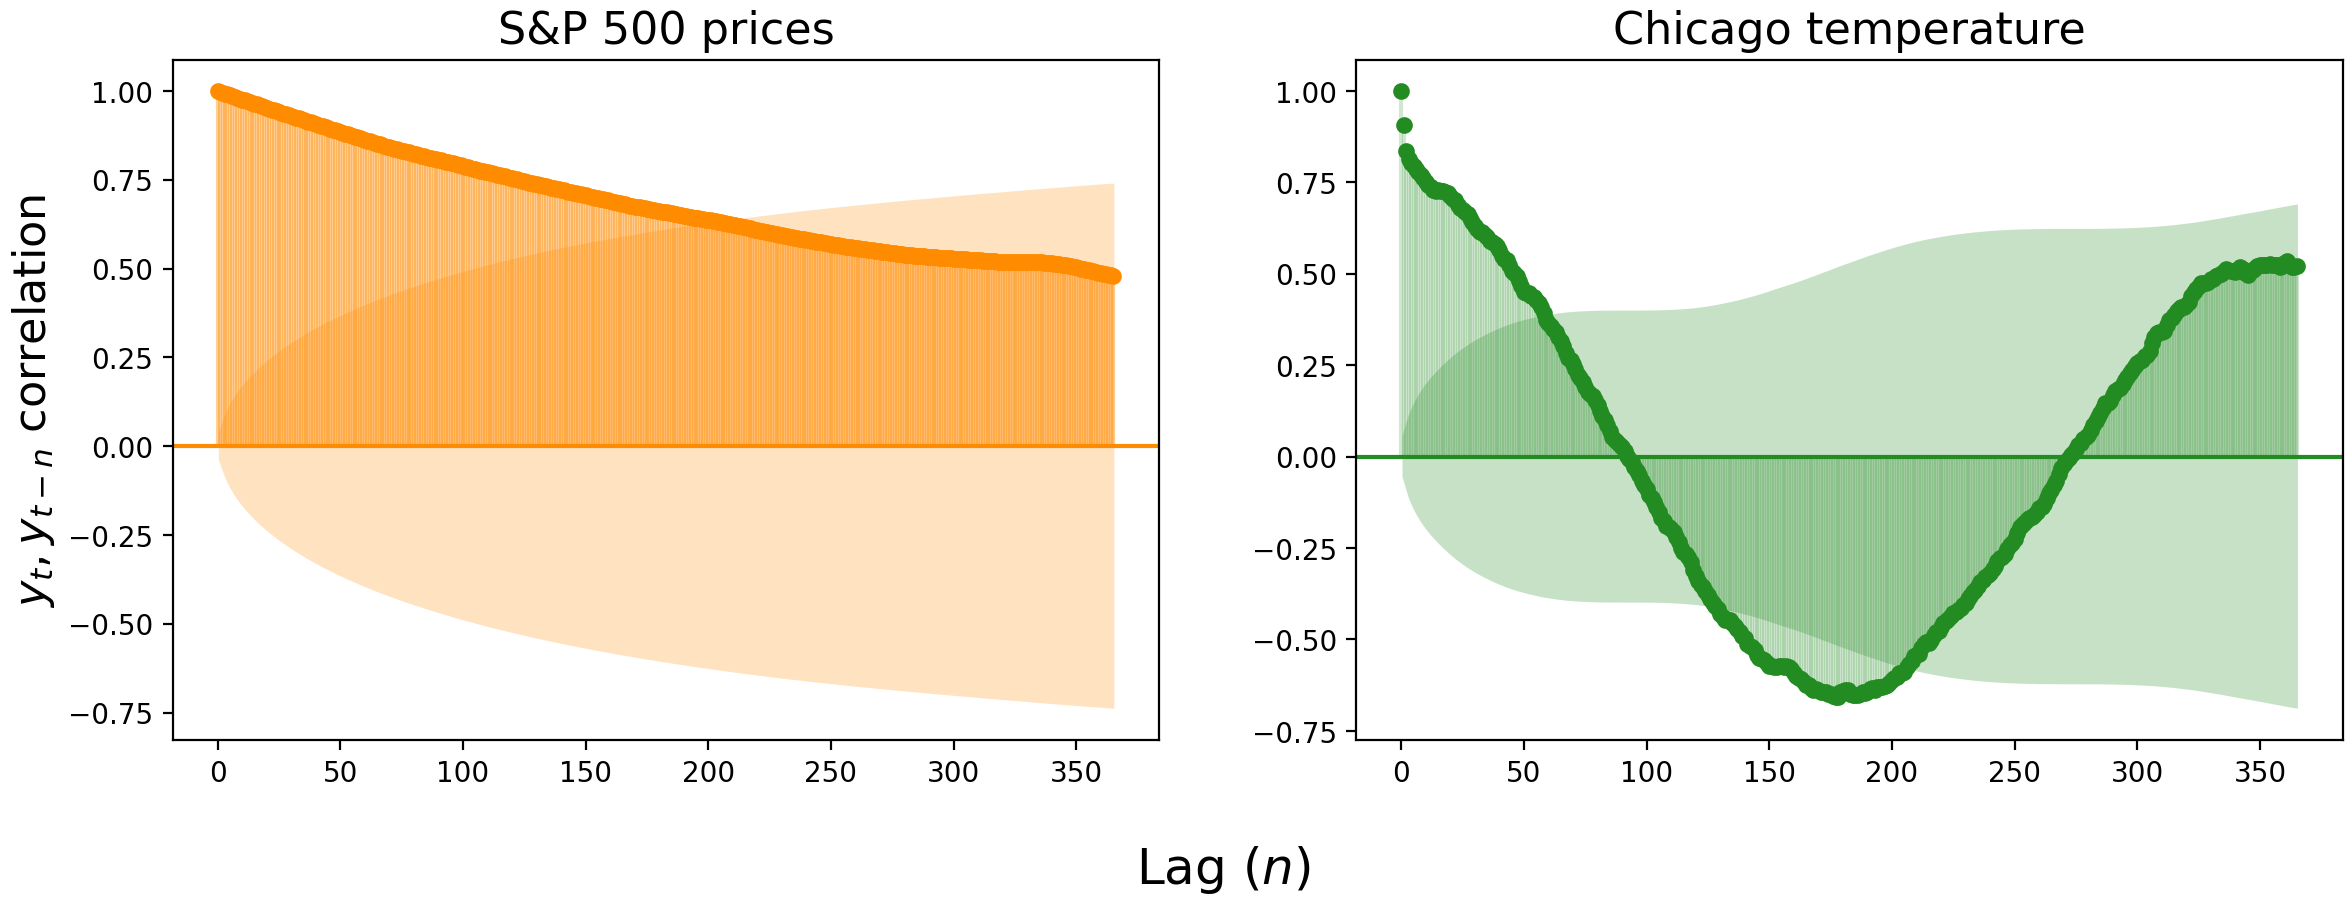
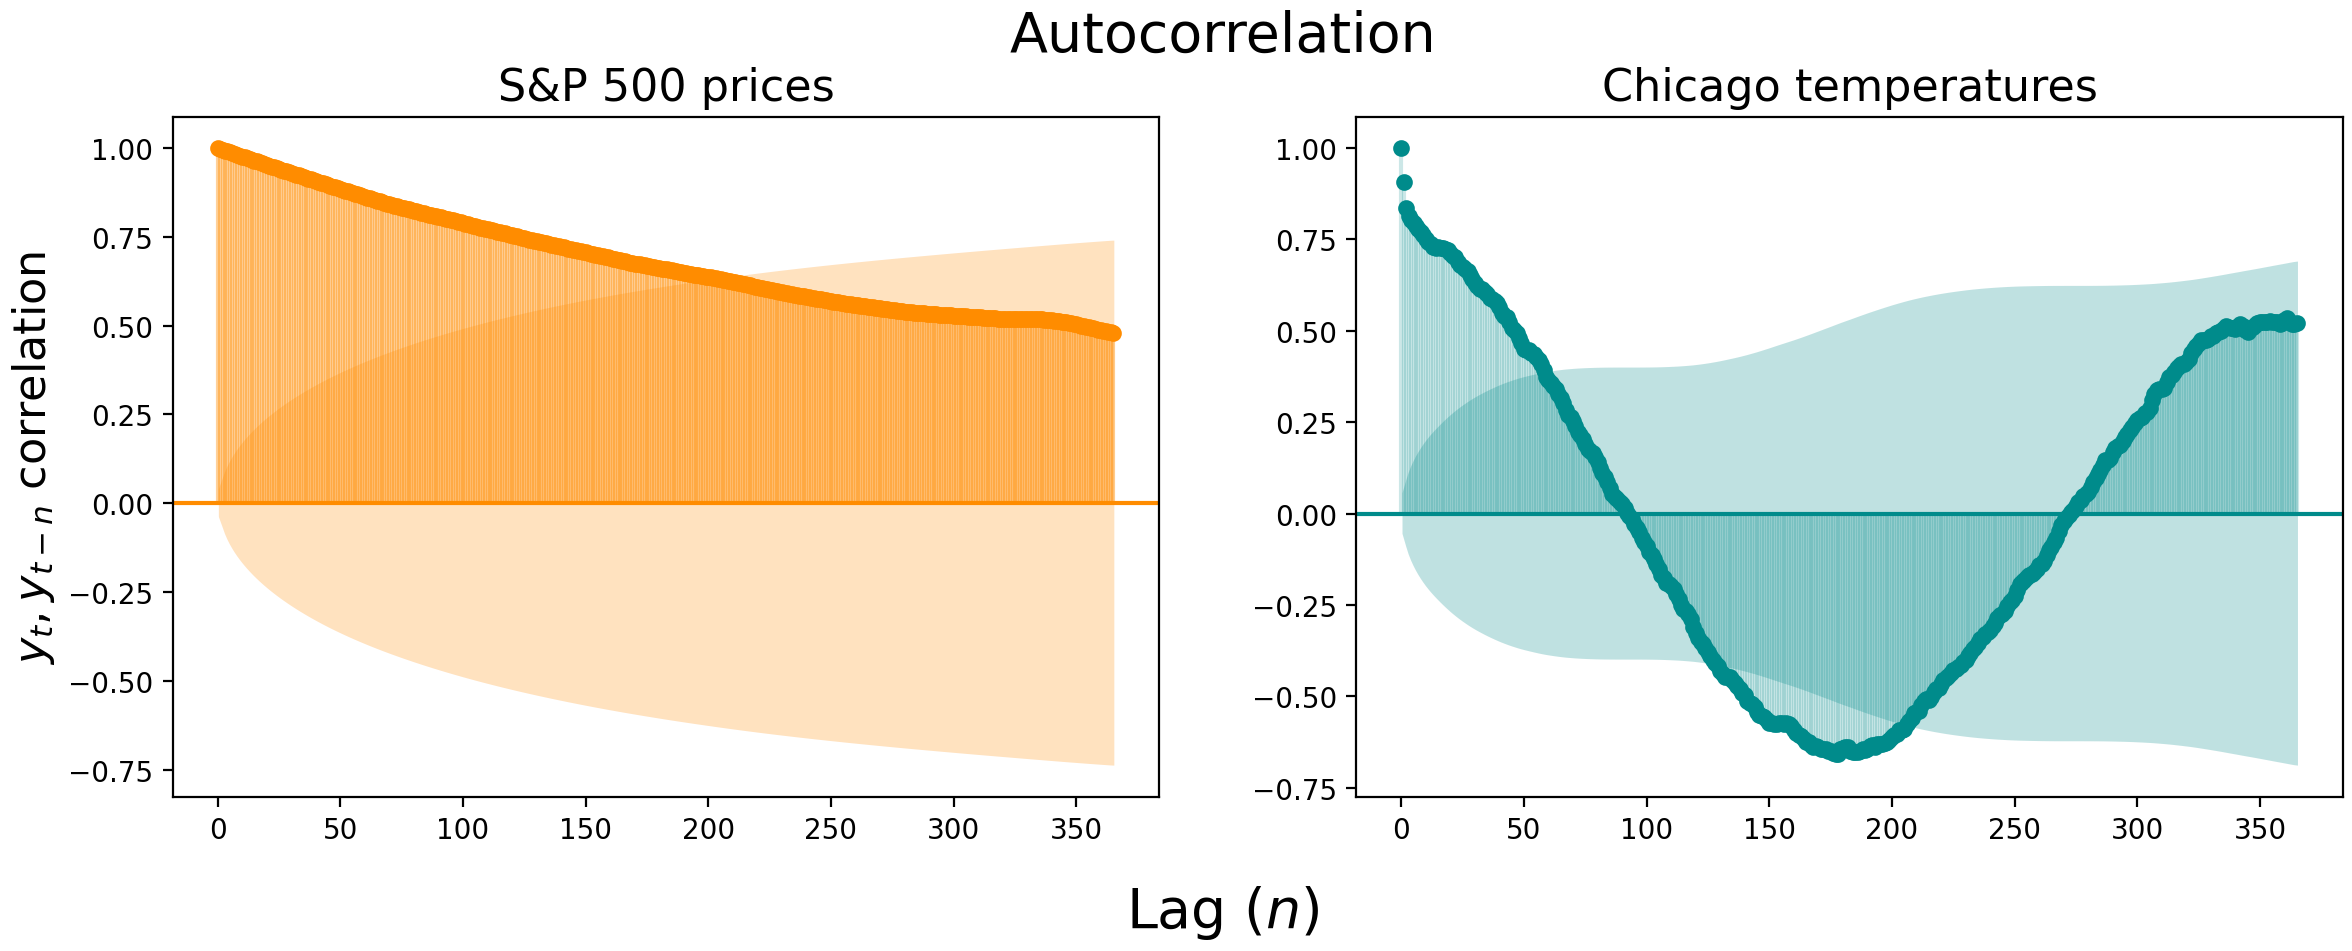
Add to autocorr, add/update images

diff --git a/_posts/statistics/2021-06-22-ARIMA-intro.md b/_posts/statistics/2021-06-22-ARIMA-intro.md
@@ -52,35 +52,28 @@ Enough talk. Let's get started!
 
 ## Getting started
 ### Autocorrelation
-Before we can start building any models, we need to cover a topic essential for describing time series: [**autocorrelation**](https://en.wikipedia.org/wiki/Autocorrelation). Autocorrelation literally means "self-correlation": it is the similarity of a time series' values with earlier values, or **lags**.
+Before we can start building any models, we need to cover a topic essential for describing time series: [**autocorrelation**](https://en.wikipedia.org/wiki/Autocorrelation). Autocorrelation means "self-correlation": it is the similarity of a time series' values with earlier values, or **lags**.
 
-We can visualize the correlation of the _present value_ with a _previous value $n$ lags ago_ with an autocorrelation plot. Below we visualize the autocorrelation of [daily S&P 500 closing prices](https://finance.yahoo.com/quote/DX-Y.NYB/history?period1=1468195200&period2=1625961600&interval=1d&filter=history&frequency=1d&includeAdjustedClose=true) (left) and [daily maximum temperature at the Chicago Botanical Garden](https://www.ncdc.noaa.gov/cdo-web/datasets/GHCND/stations/GHCND:USC00111497/detail) (right).
+We can visualize the correlation of the _present value_ with a _previous value $n$ lags ago_ with an autocorrelation plot. These plots are constructed by calculating the correlation of each value ($y_t$) with the value at the previous time step ($y_{t-1}$), two steps ago ($y_{t-2}$), three ($y_{t-3}$), and so on. The y-axis shows the strength of correlation at that lag, and we consider any value outside the shaded error interval to be a significant correlation.
+
+The correlation at lag zero is always 1: $y_t$ better be perfectly correlated with $y_t$, or something's wrong. For the remaining lags, there are three typical patterns: 1) a lack of autocorrelation, 2) a gradual decay, and 3) a sharp drop. (Though in real-world data, you might get a mix of \#2 and \#3.)
+
+<img src="{{  site.baseurl  }}/images/statistics/arima/autocorrelation.png">
+
+Below we visualize the autocorrelation of [daily S&P 500 closing prices](https://finance.yahoo.com/quote/DX-Y.NYB/history?period1=1468195200&period2=1625961600&interval=1d&filter=history&frequency=1d&includeAdjustedClose=true) (left) and [daily maximum temperature at the Chicago Botanical Garden](https://www.ncdc.noaa.gov/cdo-web/datasets/GHCND/stations/GHCND:USC00111497/detail) (right). The S&P 500 prices are so correlated that you have to look more than six months into the past to find uncorrelated values. The Chicago temperatures become uncorrelated faster, at about the two month mark, but then shoot out the other side and become _negatively correlated_ with temperatures from 4-7 months ago.
 
 <img src="{{  site.baseurl  }}/images/statistics/arima/autocorr_examples.png">
 
+### Partial autocorrelation
+Then we can look at partial autocorrelation.
 
-Today's maximum temperature at the Chicago Botanical Garden tends to be 90.5% correlated with _yesterday's_ max temperature, meaning the autocorrelation at _lag-1_ is 0.905. The correlation of today vs. two days ago is 83.6%, meaning the autocorrelation at _lag-2_ is 0.836. These correlations aren't always significant, meanwhile $-$ the
+<img src="{{  site.baseurl  }}/images/statistics/arima/partial_autocorr_examples.png">
 
-The maximum daily temperature at the Chicago botanical garden today, meanwhile, tends to be -43% correlated with the temperature 130 days ago, meaning the autocorrelation at _lag-130_ is -0.43.
-
-<!-- If today's value tends to be 90% correlated with _yesterday's_ value, our autocorrelation at _lag-1_ will be 0.9. If today tends to be 50% _negatively correlated_ with the value from _two days ago_, the autocorrelation at _lag-2_ will be -0.5. At some point, the correlation between today and some time ago is too low to be meaningful $-$ we call that value -->
-
-
-When we calculate the autocorrelation at a given lag, we
-
-At some point, today's value won't be meaningfully correlated with a previous value.
-
-Got S&P data from here https://finance.yahoo.com/quote/DX-Y.NYB/history?period1=1468195200&period2=1625961600&interval=1d&filter=history&frequency=1d&includeAdjustedClose=true
 
 
 
  Unless we have an infinitely long time series, these correlations will always be estimates, and so they will need to be significantly different from zero for us to consider them real.
 
-Here's what typical autocorrelation plots look like.
-
-<img src="{{  site.baseurl  }}/images/statistics/arima/autocorrelation.png">
-
-We construct these plots by calculating the correlation of each value ($y_t$) with the value from one time step ago ($y_{t-1}$), two steps ago ($y_{t-2}$), three ($y_{t-3}$), and so on. The correlation at lag zero is always 1: $y_t$ better be perfectly correlated with $y_t$, or something's wrong. For the remaining lags, we focus on whether they fall within the shaded confidence envelope on the plot: when the autocorrelation at this lag is within the envelope, that means the values aren't significantly correlated.
 
 
 ### Model assumptions
